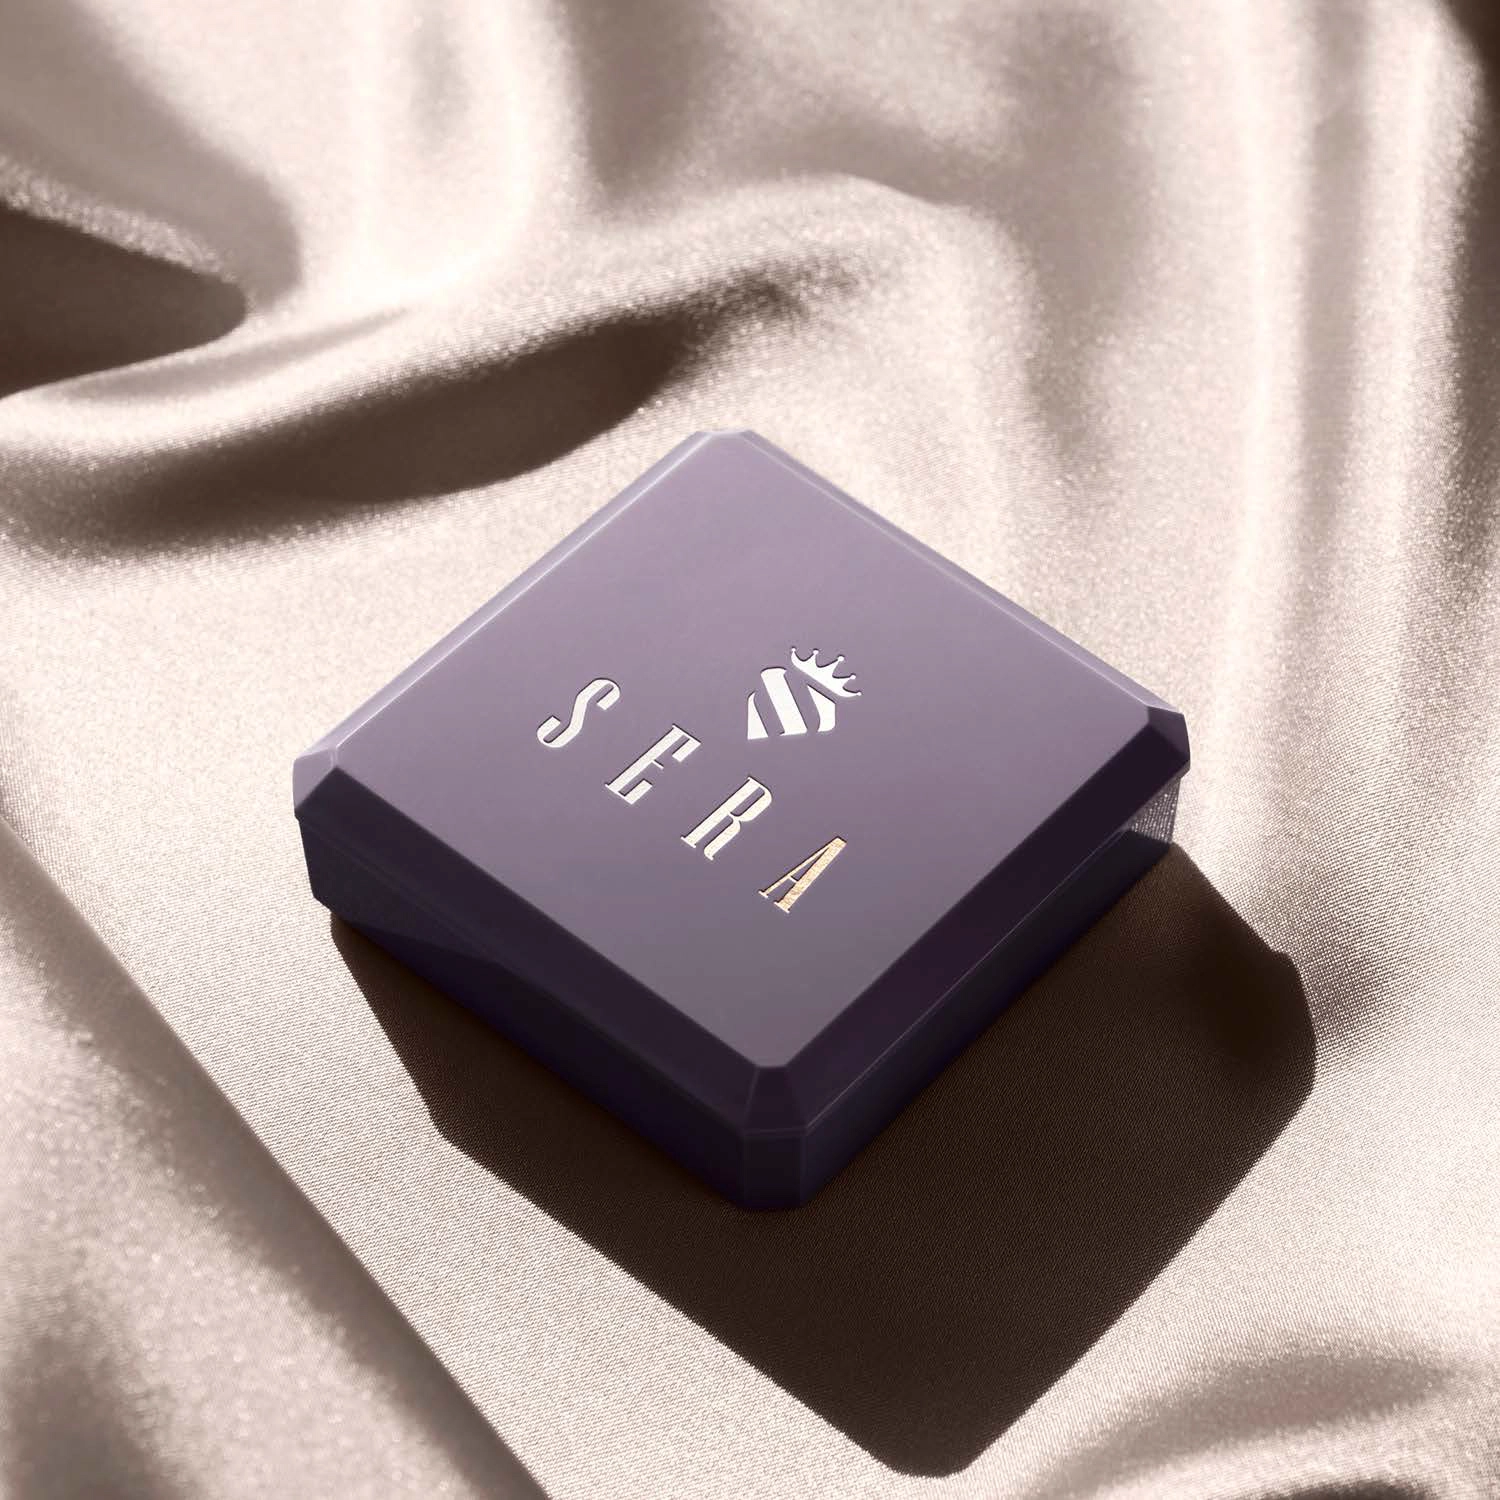
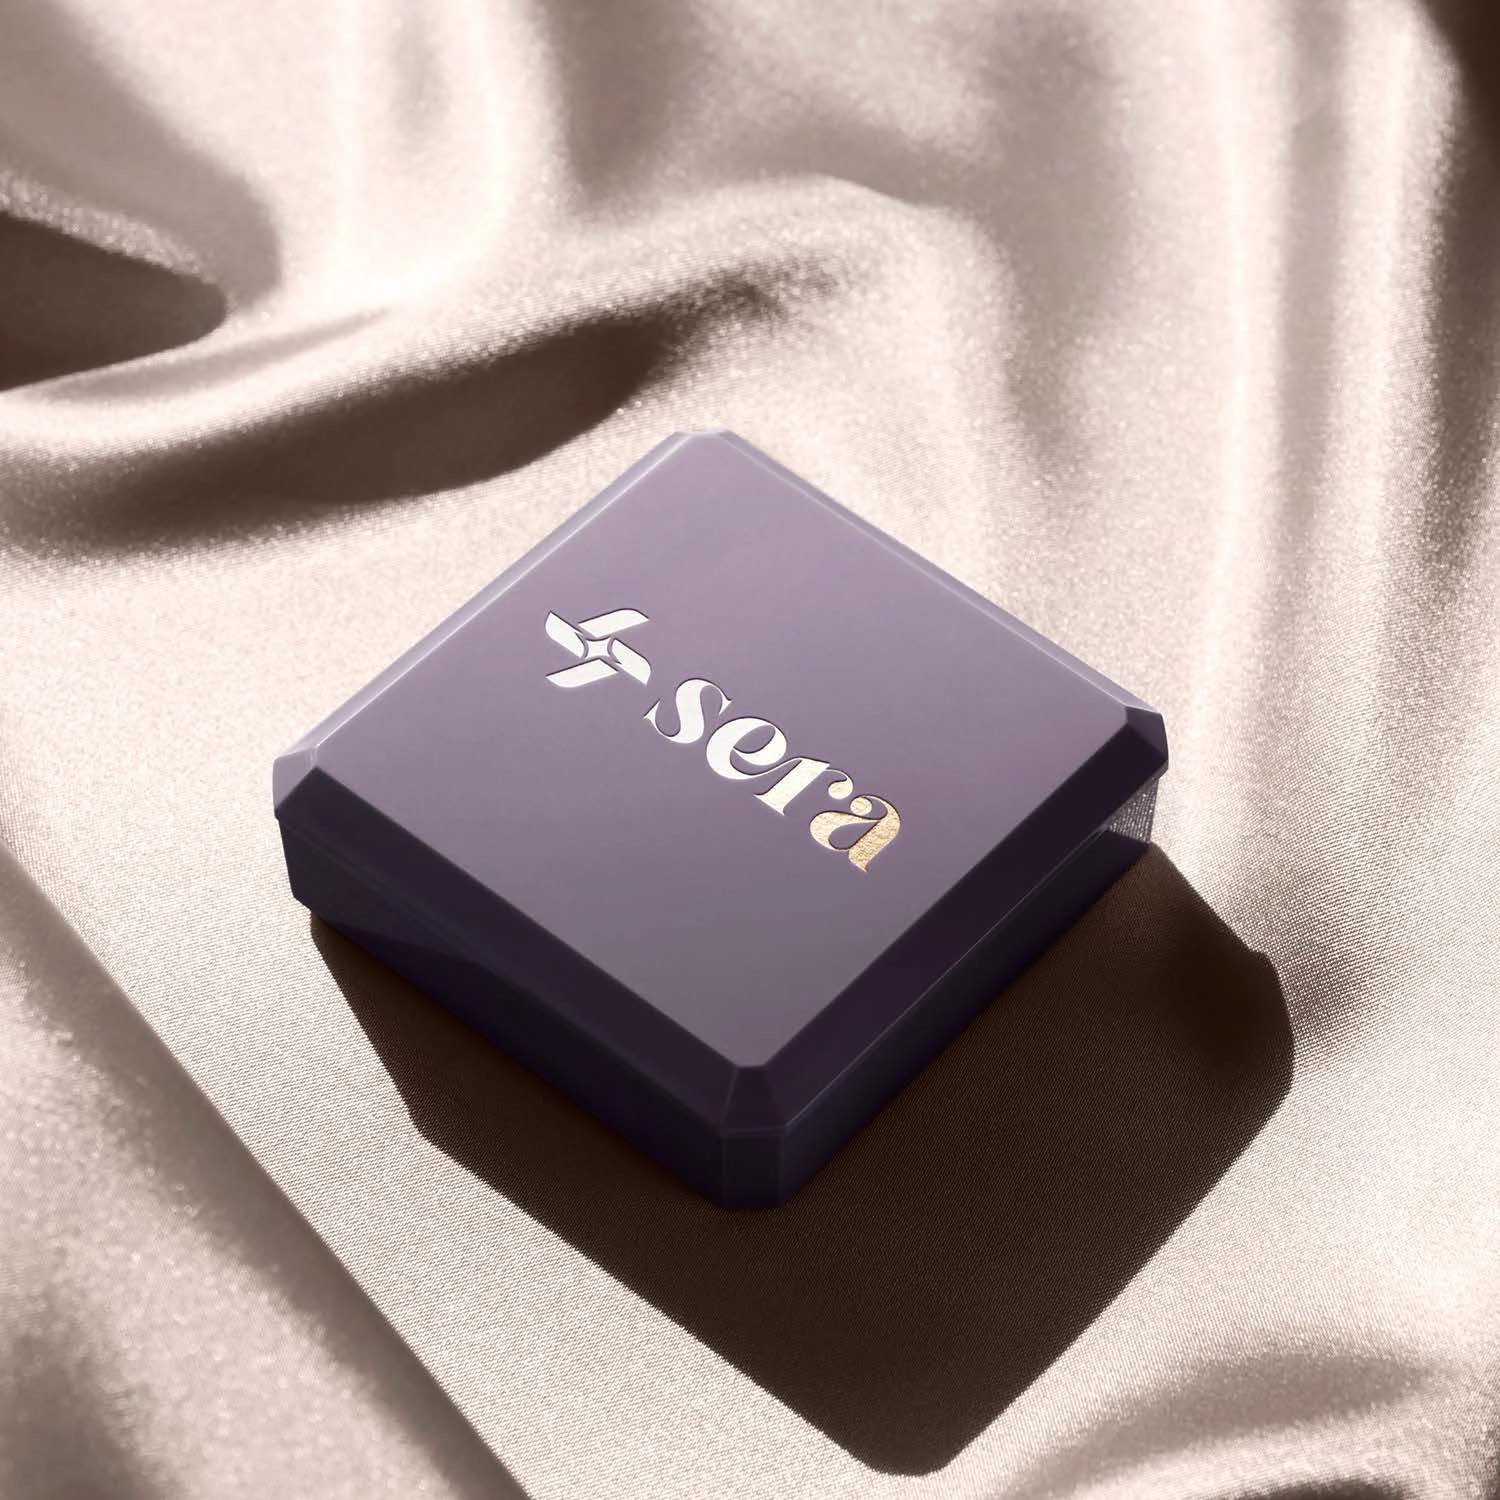
commit

diff --git a/sera.html b/sera.html
@@ -134,14 +134,14 @@
                         <div id="hero-styles">
                             <div id="hero-caption" class="content-full-width text-align-center parallax-scroll-caption">
                                 <div class="inner">   
-                                    <h1 class="hero-title caption-timeline primary-font-title"><span><em>Feel It</em> Branding</span></h1>
+                                    <h1 class="hero-title caption-timeline primary-font-title"><span><em>Sera</em> Logo</span></h1>
                                     <div class="hero-arrow link caption-timeline"><span><i class="arrow-icon"></span></i></div>
                                 </div>
                             </div>
                             <div id="hero-description" class="content-max-width">
                                 <div class="inner">
                                 	<p class="bigger">About The Project</p>
-                                    <p class="has-opacity">Feel It Apparel Branding</p>
+                                    <p class="has-opacity">Sera Logo</p>
                                     <br>
                                     <p class="bigger no-margins">Branding</p>
                                     <!-- <p class="has-opacity">May 2023</p>
@@ -170,7 +170,7 @@
                     </div>
                     <div id="hero-image-wrapper">
                     	<div id="hero-background-layer" class="parallax-scroll-image">
-                            <div id="hero-bg-image" style="background-image:url(images/FeelIt/Cover.gif)"></div>
+                            <div id="hero-bg-image" style="background-image:url(images/SERA/Cover.webp)"></div>
                         </div>
                     </div>                        
                     <!--/Hero Section -->   
@@ -184,7 +184,7 @@
                             <!-- Row -->
                             <div class="content-row row_padding_top light-section change-header-color text-align-center" data-bgcolor="#fff">
                             
-                                <h2 class="has-mask-fill block-title">Feel It Apparel Branding</h2>                                    
+                                <h2 class="has-mask-fill block-title">Sera Logo</h2>                                    
                                 <!-- <p class="has-opacity">Unveil the Pinned Gallery: Scroll to Reveal</p> -->
                                 
                                 <hr><hr>
@@ -196,16 +196,13 @@
                             <!-- Row -->
                             <div class="content-row text-align-center row_padding_bottom light-section change-header-color" data-bgcolor="#fff">
                                 
-                                <img src="images/FeelIt/Feel-It_01.webp" alt="Image Title">
-                                <img style="margin-top: 10px;" src="images/FeelIt/Feel-It_02.webp" alt="Image Title">
-                                <img style="margin-top: 10px;" src="images/FeelIt/Feel-It_03.webp" alt="Image Title">
-                                <img style="margin-top: 10px;" src="images/FeelIt/Feel-It_04.webp" alt="Image Title">
-                                <img style="margin-top: 10px;" src="images/FeelIt/Feel-It_05.webp" alt="Image Title">
-                                <img style="margin-top: 10px;" src="images/FeelIt/Feel-It_06.webp" alt="Image Title">
-                                <img style="margin-top: 10px;" src="images/FeelIt/Feel-It_07.webp" alt="Image Title">
-                                <img style="margin-top: 10px;" src="images/FeelIt/Feel-It_08.webp" alt="Image Title">
-                                <img style="margin-top: 10px;" src="images/FeelIt/Feel-It_09.webp" alt="Image Title">
-                                <img style="margin-top: 10px;" src="images/FeelIt/Feel-It_10.webp" alt="Image Title">
+                                <img src="images/SERA/1.webp" alt="Image Title">
+                                <img style="margin-top: 10px;" src="images/SERA/2.webp" alt="Image Title">
+                                <img style="margin-top: 10px;" src="images/SERA/3.webp" alt="Image Title">
+                                <img style="margin-top: 10px;" src="images/SERA/4.webp" alt="Image Title">
+                                <img style="margin-top: 10px;" src="images/SERA/5.webp" alt="Image Title">
+                                <img style="margin-top: 10px;" src="images/SERA/6.webp" alt="Image Title">
+                                
                                 
                                 <!-- <div class="pinned-gallery">
                                     <div class="pinned-image">
@@ -229,7 +226,7 @@
                             <!-- Row -->
                             <div class="content-row small row_padding_bottom light-section change-header-color text-align-center" data-bgcolor="#fff">
                                                                 
-                                <h5 class="has-mask-fill">BRANDING | PACKAGING</h5>
+                                <h5 class="has-mask-fill">BRANDING | LOGO</h5>
                                 
                             </div> 
                             <!--/Row -->

diff --git a/feelit.html b/feelit.html
@@ -249,10 +249,10 @@
                                 <div class="next-project-caption text-align-center content-max-width">
                                     <div class="next-caption-wrapper">
                                     	<div class="caption-wrapper">
-                                            <a class="next-ajax-link-project auto-trigger" data-type="page-transition" href="oro1.html" data-color="#963a8d" data-firstline="Next" data-secondline="Project"></a>
+                                            <a class="next-ajax-link-project auto-trigger" data-type="page-transition" href="sera.html" data-color="#963a8d" data-firstline="Next" data-secondline="Project"></a>
                                             <div class="next-caption"> 
                                                 <div class="next-hero-counter"><span>0</span></div>                                                                                           
-                                                <div class="next-hero-title primary-font-title"><span><em>Cocoa</em> BLiss</span></div>
+                                                <div class="next-hero-title primary-font-title"><span><em>Sera</em> Logo</span></div>
                                                 <div class="next-hero-subtitle"><span>Next Project</span></div>                                        
                                             </div>
                                         </div>                                        
@@ -263,7 +263,7 @@
                                 
                                 <div class="next-project-image-wrapper">
                                     <div class="next-project-image">
-                                        <div class="next-project-image-bg" style="background-image:url(images/ORO/Concept1/Cover.gif)"></div>
+                                        <div class="next-project-image-bg" style="background-image:url(images/SERA/Cover.webp)"></div>
                                     </div>            
                                 </div>
                                 

diff --git a/index-showcase-slider.html b/index-showcase-slider.html
@@ -304,6 +304,22 @@
                                                 </div>
                                             </div> 
 
+                                            <div class="clapat-slide">
+                                                <div class="slide-inner" data-centerLine="VIEW">
+                                                    <div class="slide-moving">
+                                                        <div class="trigger-item" data-centerLine="OPEN" data-index="10">
+                                                            <div class="img-mask">
+                                                                <a class="slide-link" data-type="page-transition" href="sera.html"></a>
+                                                                <div class="section-image  trigger-item-link">
+                                                                    <img src="images/SERA/Cover.webp" class="item-image grid__item-img" alt="">
+                                                                </div>                                                
+                                                                <img src="images/SERA/Cover.webp" class="grid__item-img grid__item-img--large" alt="">                              
+                                                            </div>
+                                                        </div>
+                                                    </div>
+                                                </div>
+                                            </div>
+
                                         </div>
                                         <!-- ClaPat Main Slider -->
                                         
